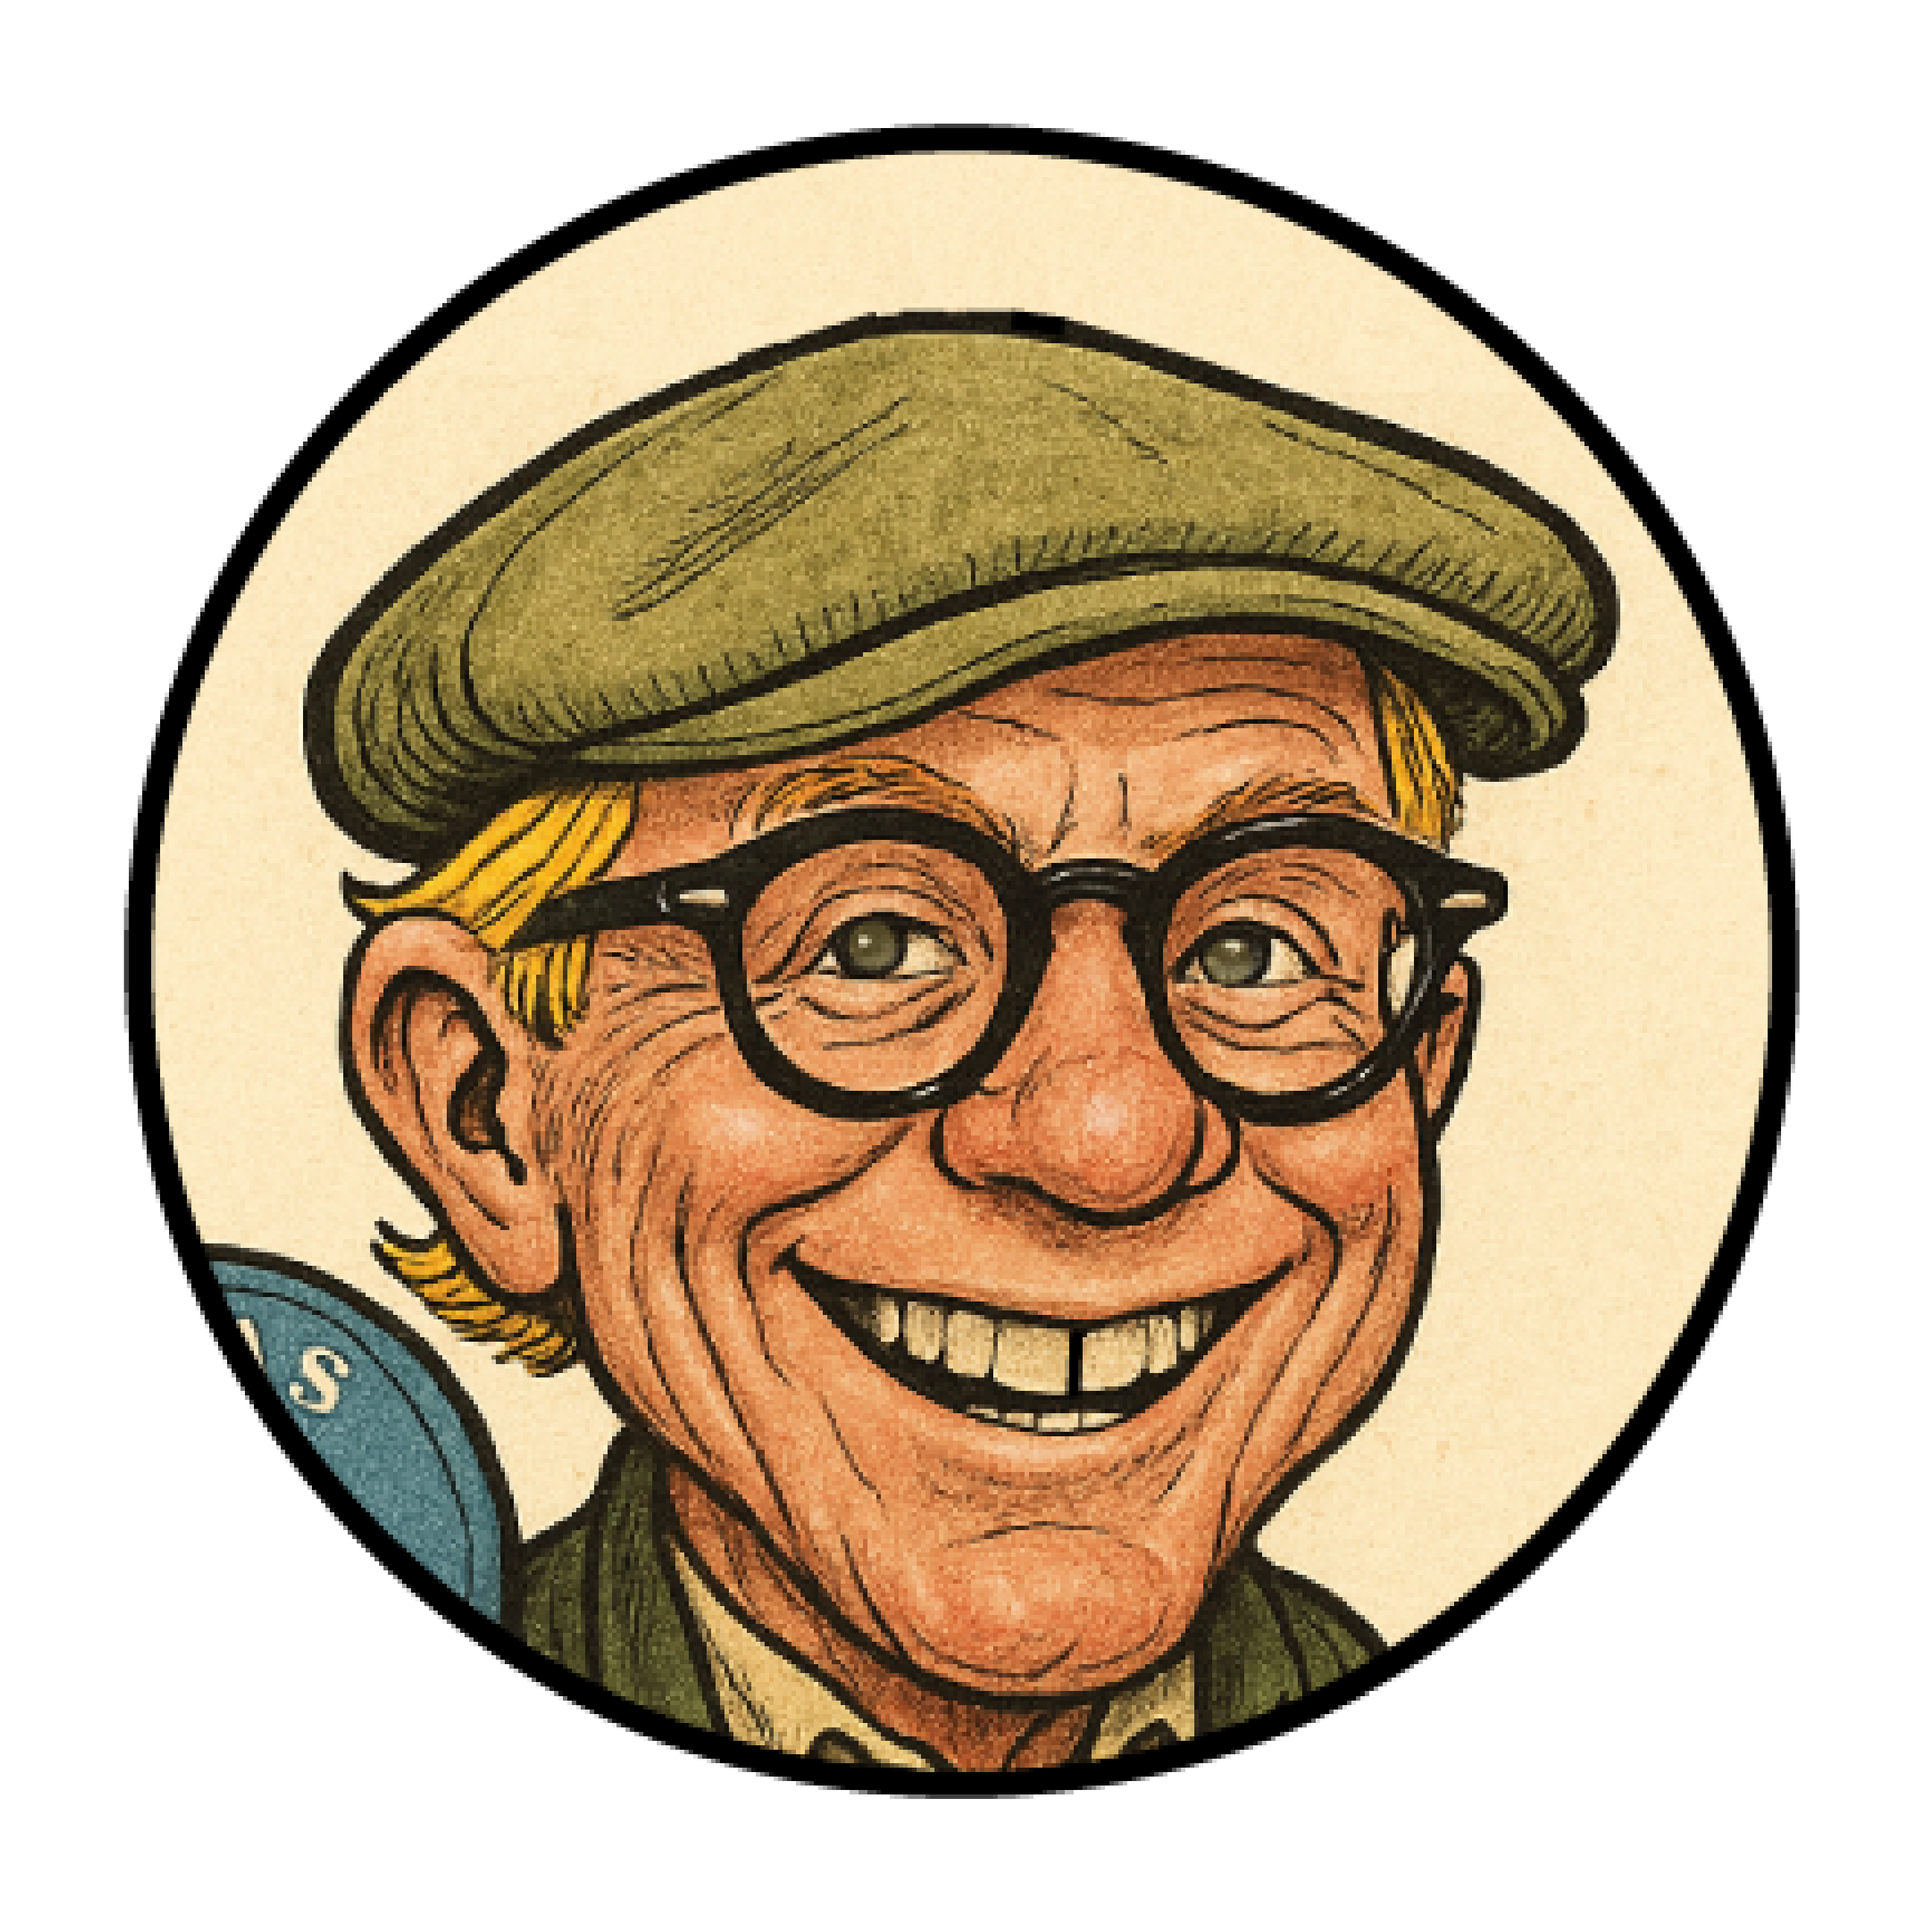
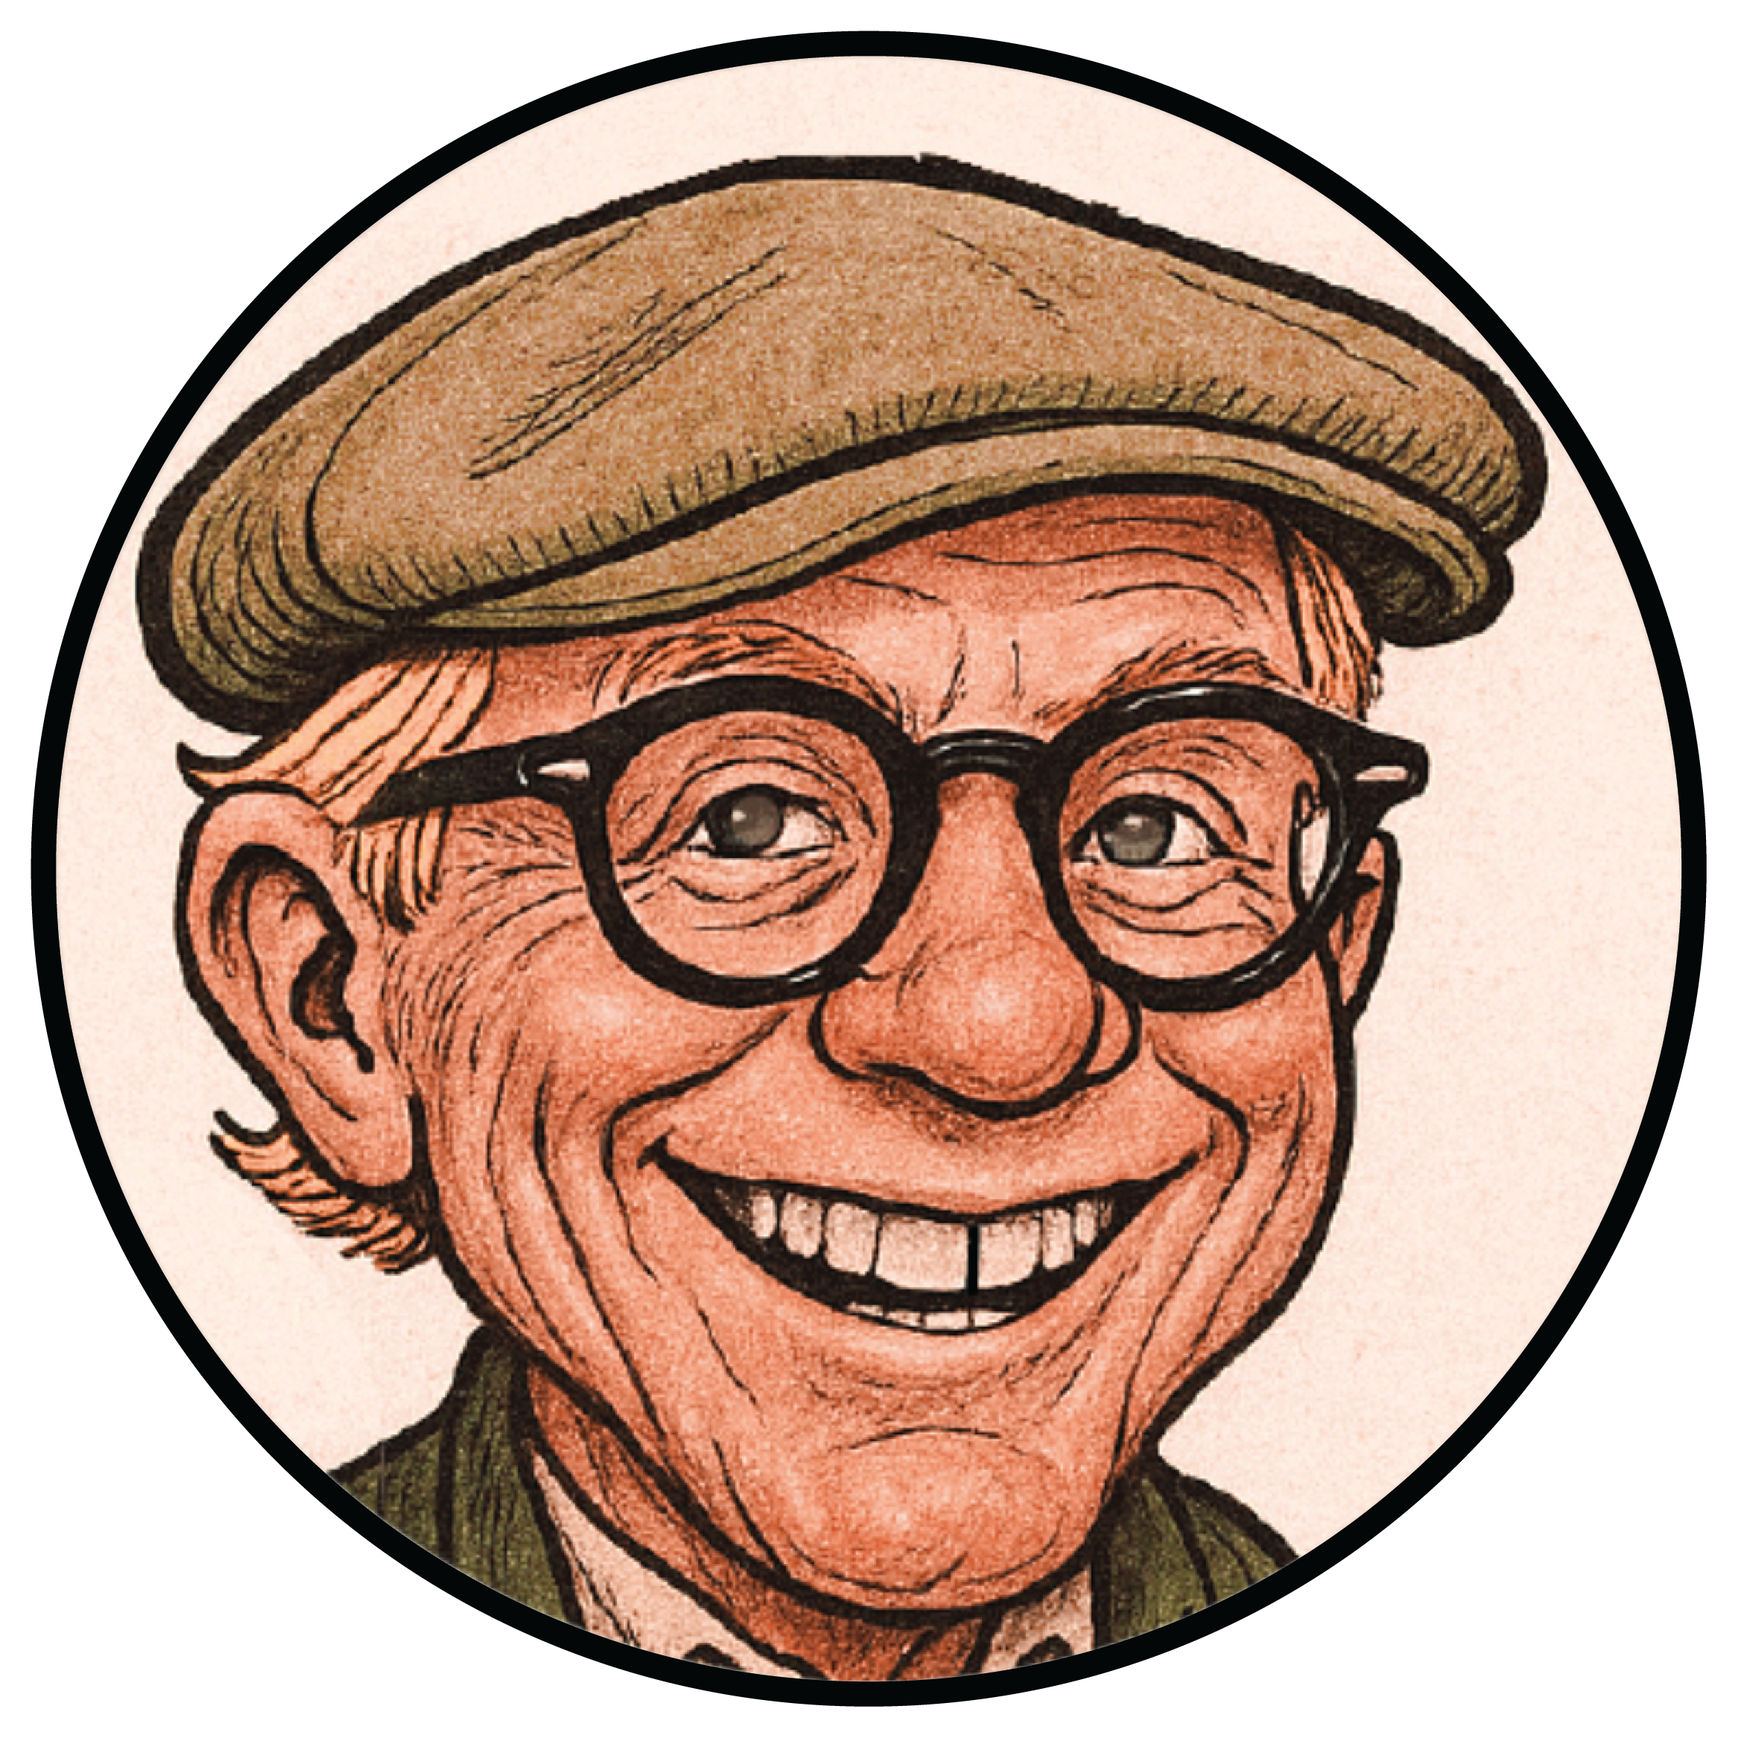
bug fixed where the links didnt work if user was on a different end point

diff --git a/src/app/components/ui/Header.js b/src/app/components/ui/Header.js
@@ -95,24 +95,34 @@ export default function Header() {
     window.location.assign('/')
   }
 
-  const scrollToSection = (id, clearHash = true) => {
-    const element = document.getElementById(id);
+  const scrollToSection = (id, targetPage, clearHash = true) => {
+    const currentPath = window.location.pathname;
 
-    if (element) {
-      element.scrollIntoView({ 
-        behavior: 'smooth',
-        block: 'start'
-      });
+    if (
+      currentPath === targetPage ||
+      (targetPage === "/" && currentPath === "")
+    ) {
+      const element = document.getElementById(id);
 
-      if (clearHash) {
-        setTimeout(() => {
-          window.history.replaceState(
-            null,
-            '',
-            window.location.pathname + window.location.search
-          )
-      }, 1200);
-  }}}
+      if (element) {
+        element.scrollIntoView({
+          behavior: "smooth",
+          block: "start",
+        });
+
+        if (clearHash) {
+          setTimeout(() => {
+            window.history.replaceState(
+              null,
+              "",
+              window.location.pathname + window.location.search,
+            );
+          }, 1200);
+        }
+      } 
+    }
+    else {window.location.href = `${targetPage}#${id}`};
+  };
 
   return (
     <nav className={`ffc-nav ${isMenuOpen ? 'mobile-open' : ''}`}>
@@ -144,7 +154,7 @@ export default function Header() {
                 <Link 
                   onClick={e => {
                     e.preventDefault();
-                    scrollToSection(item.element);
+                    scrollToSection(item.element, '/');
                   }}
                   className="ffc-home-menu-link" 
                   href={item.href}>
@@ -176,10 +186,10 @@ export default function Header() {
               <Link 
                 onClick={e => {
                 e.preventDefault();
-                scrollToSection('guided-orientation');
+                scrollToSection('guided-orientation', '/orientation');
                 }} 
                 className="ffc-home-menu-link"
-                href="#guided-orientation">
+                href="/orientation#guided-orientation">
                 Guided Orientation
               </Link>
             </li>
@@ -187,7 +197,7 @@ export default function Header() {
               <Link
                 onClick={e => {
                   e.preventDefault();
-                  scrollToSection('how-it-works');
+                  scrollToSection('how-it-works', '/orientation');
                 }}
                 className="ffc-home-menu-link" 
                 href="#how-it-works"
@@ -199,7 +209,7 @@ export default function Header() {
               <Link 
                 onClick={e => {
                   e.preventDefault();
-                  scrollToSection('submit-oq');
+                  scrollToSection('submit-oq', '/orientation');
                 }}
                 className="ffc-home-menu-link" 
                 href="submit-oq">
